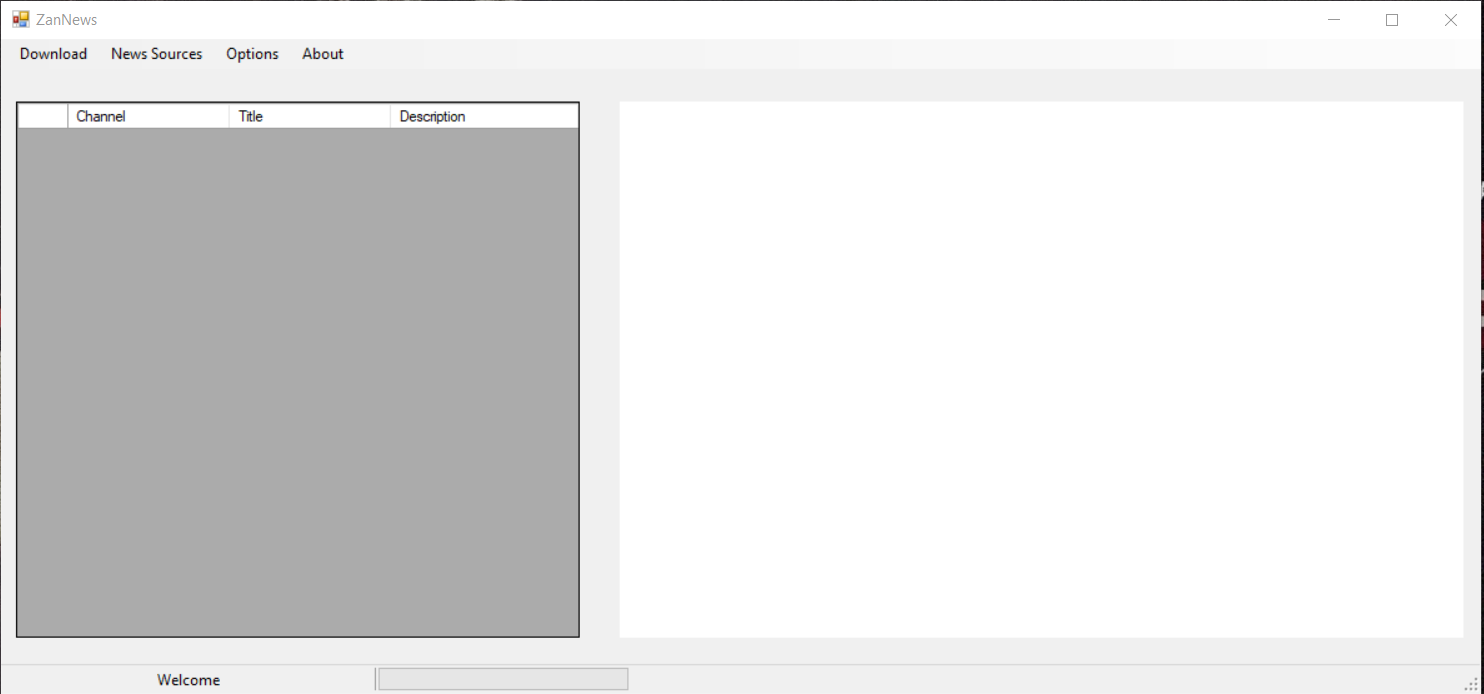
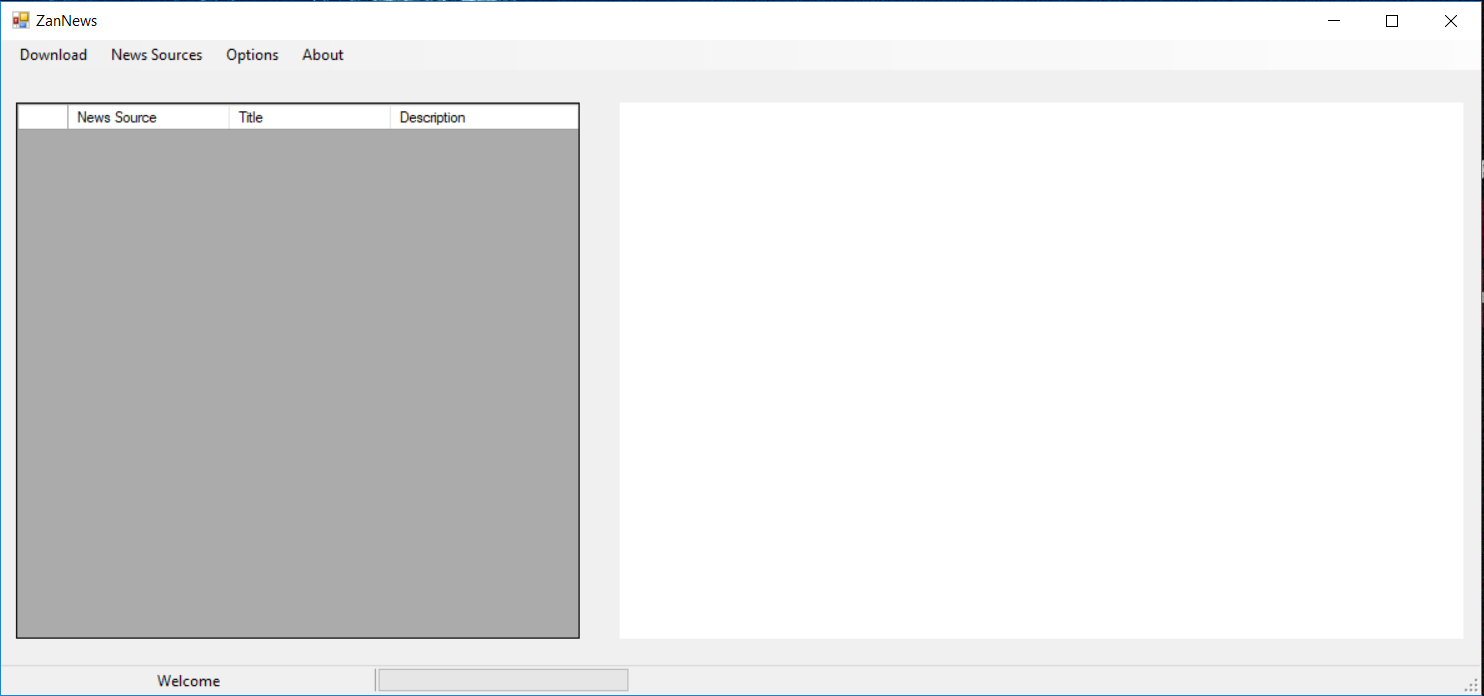
Updated wiki pictures.

diff --git a/ZanScore/Form1.Designer.cs b/ZanScore/Form1.Designer.cs
@@ -35,9 +35,6 @@
             System.ComponentModel.ComponentResourceManager resources = new System.ComponentModel.ComponentResourceManager(typeof(Form1));
             this.NewsWebPage = new System.Windows.Forms.WebBrowser();
             this.NewsDetailsGrid = new System.Windows.Forms.DataGridView();
-            this.NewsChannel = new System.Windows.Forms.DataGridViewTextBoxColumn();
-            this.NewsTitle = new System.Windows.Forms.DataGridViewTextBoxColumn();
-            this.NewsDescription = new System.Windows.Forms.DataGridViewTextBoxColumn();
             this.statusStrip1 = new System.Windows.Forms.StatusStrip();
             this.StatusLabel = new System.Windows.Forms.ToolStripStatusLabel();
             this.DownloadProgressBar = new System.Windows.Forms.ToolStripProgressBar();
@@ -53,6 +50,9 @@
             this.AboutProgramOption = new System.Windows.Forms.ToolStripMenuItem();
             this.MinimizeToSystray = new System.Windows.Forms.NotifyIcon(this.components);
             this.DownloadNewsTimer = new System.Windows.Forms.Timer(this.components);
+            this.NewsChannel = new System.Windows.Forms.DataGridViewTextBoxColumn();
+            this.NewsTitle = new System.Windows.Forms.DataGridViewTextBoxColumn();
+            this.NewsDescription = new System.Windows.Forms.DataGridViewTextBoxColumn();
             ((System.ComponentModel.ISupportInitialize)(this.NewsDetailsGrid)).BeginInit();
             this.statusStrip1.SuspendLayout();
             this.MainMenu.SuspendLayout();
@@ -88,27 +88,6 @@
             this.NewsDetailsGrid.Size = new System.Drawing.Size(451, 429);
             this.NewsDetailsGrid.TabIndex = 2;
             this.NewsDetailsGrid.CellContentClick += new System.Windows.Forms.DataGridViewCellEventHandler(this.LoadNewsURL);
-            // 
-            // NewsChannel
-            // 
-            this.NewsChannel.HeaderText = "Channel";
-            this.NewsChannel.Name = "NewsChannel";
-            this.NewsChannel.ReadOnly = true;
-            this.NewsChannel.SortMode = System.Windows.Forms.DataGridViewColumnSortMode.NotSortable;
-            // 
-            // NewsTitle
-            // 
-            this.NewsTitle.HeaderText = "Title";
-            this.NewsTitle.Name = "NewsTitle";
-            this.NewsTitle.ReadOnly = true;
-            this.NewsTitle.SortMode = System.Windows.Forms.DataGridViewColumnSortMode.NotSortable;
-            // 
-            // NewsDescription
-            // 
-            this.NewsDescription.HeaderText = "Description";
-            this.NewsDescription.Name = "NewsDescription";
-            this.NewsDescription.ReadOnly = true;
-            this.NewsDescription.SortMode = System.Windows.Forms.DataGridViewColumnSortMode.NotSortable;
             // 
             // statusStrip1
             // 
@@ -244,6 +223,27 @@
             // 
             this.DownloadNewsTimer.Tick += new System.EventHandler(this.AutomaticalDownloadEngine);
             // 
+            // NewsChannel
+            // 
+            this.NewsChannel.HeaderText = "News Source";
+            this.NewsChannel.Name = "NewsChannel";
+            this.NewsChannel.ReadOnly = true;
+            this.NewsChannel.SortMode = System.Windows.Forms.DataGridViewColumnSortMode.NotSortable;
+            // 
+            // NewsTitle
+            // 
+            this.NewsTitle.HeaderText = "Title";
+            this.NewsTitle.Name = "NewsTitle";
+            this.NewsTitle.ReadOnly = true;
+            this.NewsTitle.SortMode = System.Windows.Forms.DataGridViewColumnSortMode.NotSortable;
+            // 
+            // NewsDescription
+            // 
+            this.NewsDescription.HeaderText = "Description";
+            this.NewsDescription.Name = "NewsDescription";
+            this.NewsDescription.ReadOnly = true;
+            this.NewsDescription.SortMode = System.Windows.Forms.DataGridViewColumnSortMode.NotSortable;
+            // 
             // Form1
             // 
             this.AutoScaleMode = System.Windows.Forms.AutoScaleMode.None;
@@ -286,9 +286,6 @@
         private System.Windows.Forms.ToolStripMenuItem DownloadFromSelectedSourcesOption;
         private System.Windows.Forms.ToolStripMenuItem AboutProgramOption;
         private System.Windows.Forms.ToolStripProgressBar DownloadProgressBar;
-        private System.Windows.Forms.DataGridViewTextBoxColumn NewsChannel;
-        private System.Windows.Forms.DataGridViewTextBoxColumn NewsTitle;
-        private System.Windows.Forms.DataGridViewTextBoxColumn NewsDescription;
         private System.Windows.Forms.NotifyIcon MinimizeToSystray;
         /// <summary>
         /// The timer that will be used when the automatical download option is enabled
@@ -299,6 +296,9 @@
         /// The web page that displays the news
         /// </summary>
         public System.Windows.Forms.WebBrowser NewsWebPage;
+        private System.Windows.Forms.DataGridViewTextBoxColumn NewsChannel;
+        private System.Windows.Forms.DataGridViewTextBoxColumn NewsTitle;
+        private System.Windows.Forms.DataGridViewTextBoxColumn NewsDescription;
     }
 }
 
